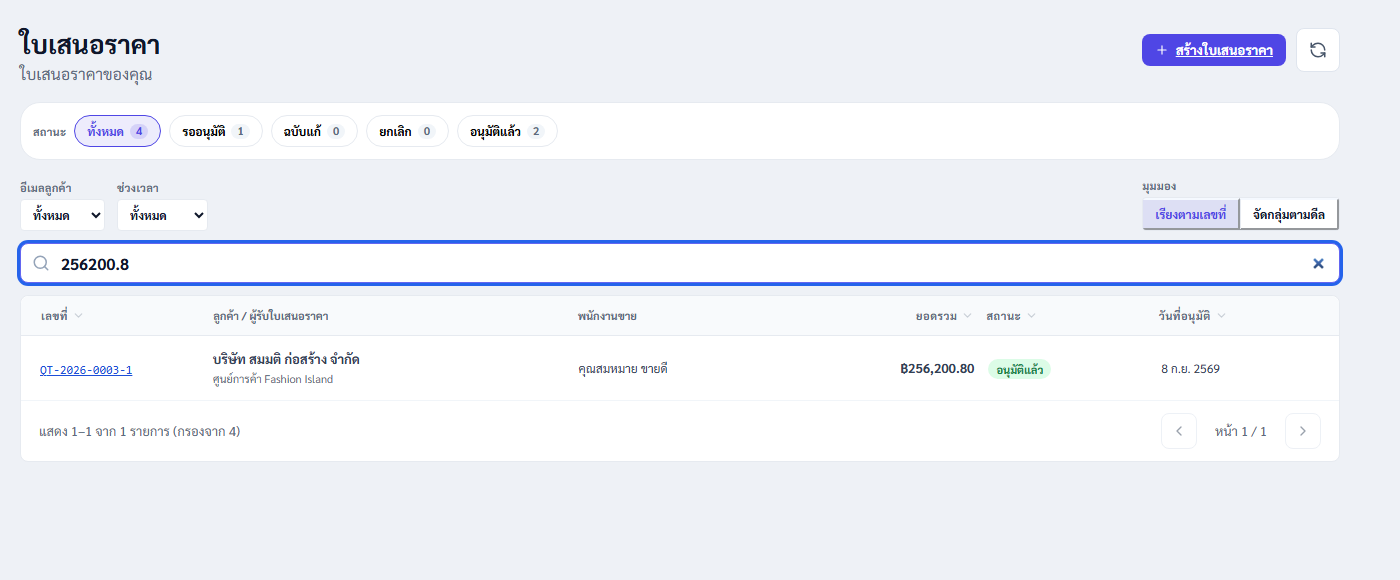
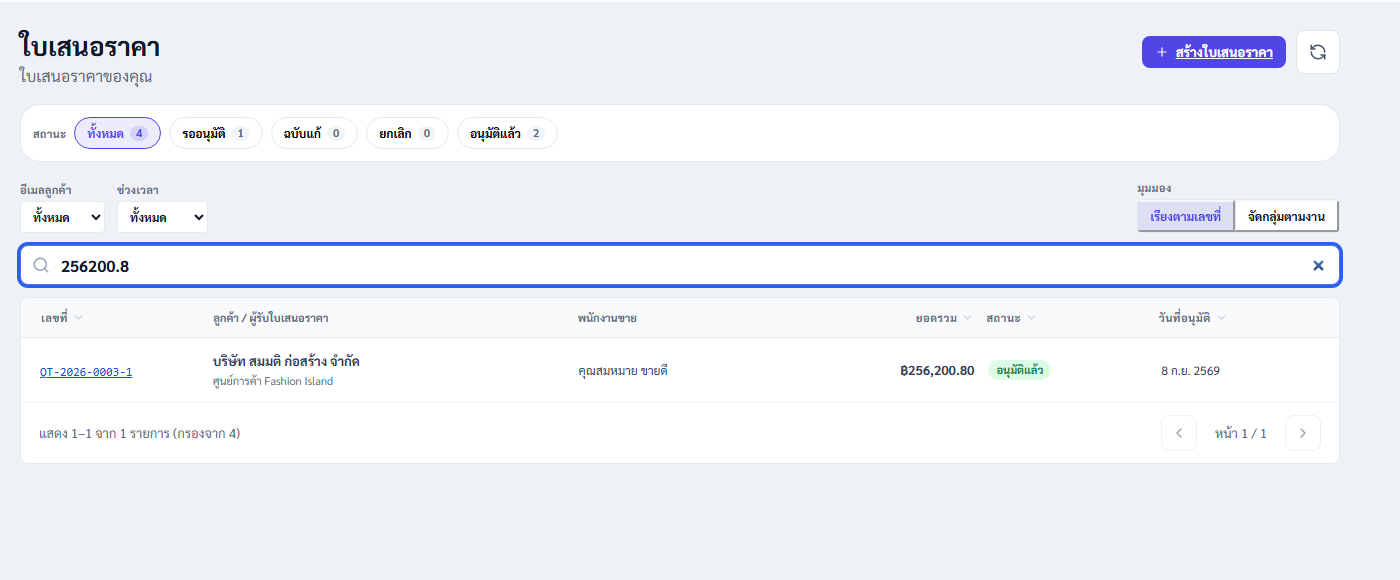
docs(whats-new): the 16 and 17 Nov notices name today's งาน labels; 13 screenshots re-shot
Owner ruling for this commit: staff following a notice must find the labels it names. team-overview and
ceo-home (16 Nov), the quotation-list and team lifecycle entries and the deal-page prose (17 Nov) now
quote the current labels; the re-shot pictures are pinned by hash deliberately. The RENAMED_AFTER_PUBLISH
escape hatch is gone, so every quoted label is checked against the screen again.

diff --git a/frontend/src/features/whatsNew/releases/2026-11-16.js b/frontend/src/features/whatsNew/releases/2026-11-16.js
@@ -108,15 +108,15 @@ const entries = [
     path: '/',
     landing: true,
     kind: 'new',
-    title: 'ภาพรวมทีมขาย: ใครถือดีลไหน และดีลไหนเงียบ',
-    why: 'เห็นดีลทั้งทีมในหน้าเดียว แยกตามพนักงานขาย พร้อมดีลที่เงียบเกินกำหนดและการเข้าพบของสัปดาห์นี้ แทนตัวเลขเดิมที่ไม่ตรง',
+    title: 'ภาพรวมทีมขาย: ใครถืองานไหน และงานไหนเงียบ',
+    why: 'เห็นงานทั้งทีมในหน้าเดียว แยกตามพนักงานขาย พร้อมงานที่เงียบเกินกำหนดและการเข้าพบของสัปดาห์นี้ แทนตัวเลขเดิมที่ไม่ตรง',
     steps: [
-      ['กดเมนู "แดชบอร์ด" ดูตัวเลขด้านบน', '"ดีลที่ถืออยู่" "ดีลเงียบเกิน 14 วัน" และ "เข้าพบสัปดาห์นี้" ของทั้งทีม', 'ตัวเลขสรุปของภาพรวมทีมขาย'],
-      ['ดูตาราง "รายคน"', 'แต่ละแถวคือพนักงานขาย: จำนวนดีล มูลค่า ดีลเงียบ และเวลาที่อัปเดตล่าสุด', 'ตารางรายคนของทีมขาย'],
-      ['ดู "ดีลที่ควรโทรตาม"', 'ดีลเงียบทั้งทีม เรียงตามมูลค่า × จำนวนวันที่เงียบ', 'รายการดีลที่ควรโทรตาม'],
+      ['กดเมนู "แดชบอร์ด" ดูตัวเลขด้านบน', '"งานที่ถืออยู่" "งานเงียบเกิน 14 วัน" และ "เข้าพบสัปดาห์นี้" ของทั้งทีม', 'ตัวเลขสรุปของภาพรวมทีมขาย'],
+      ['ดูตาราง "รายคน"', 'แต่ละแถวคือพนักงานขาย: จำนวนงาน มูลค่า งานเงียบ และเวลาที่อัปเดตล่าสุด', 'ตารางรายคนของทีมขาย'],
+      ['ดู "งานที่ควรโทรตาม"', 'งานเงียบทั้งทีม เรียงตามมูลค่า × จำนวนวันที่เงียบ', 'รายการงานที่ควรโทรตาม'],
       ['ดูตารางเข้าพบสัปดาห์นี้ รายคน', 'กด ‹ › เพื่อดูสัปดาห์ก่อนหรือสัปดาห์หน้า', 'ตารางเข้าพบสัปดาห์นี้แยกตามพนักงานขาย'],
     ],
-    help: 'ตัวเลขของใครไม่ตรง ให้พนักงานขายคนนั้นตรวจดีลในหน้างานของฉัน',
+    help: 'ตัวเลขของใครไม่ตรง ให้พนักงานขายคนนั้นตรวจงานในหน้างานของฉัน',
   }),
   entry({
     id: 'ceo-home',
@@ -126,9 +126,9 @@ const entries = [
     landing: true,
     kind: 'new',
     title: 'แดชบอร์ด CEO: ภาพรวมทีมขายอยู่บนสุด',
-    why: 'ดีลของทีม ดีลที่เงียบ และการเข้าพบของสัปดาห์ อยู่ด้านบนสุดของแดชบอร์ดก่อนส่วนอื่น',
+    why: 'งานของทีม งานที่เงียบ และการเข้าพบของสัปดาห์ อยู่ด้านบนสุดของแดชบอร์ดก่อนส่วนอื่น',
     steps: [
-      ['กดเมนู "แดชบอร์ด" ดูส่วน "ภาพรวมทีมขาย"', 'ตัวเลขทีม ตารางรายคน และดีลที่ควรโทรตาม เหมือนที่ผู้จัดการฝ่ายขายเห็น', 'ส่วนภาพรวมทีมขายบนแดชบอร์ด CEO'],
+      ['กดเมนู "แดชบอร์ด" ดูส่วน "ภาพรวมทีมขาย"', 'ตัวเลขทีม ตารางรายคน และงานที่ควรโทรตาม เหมือนที่ผู้จัดการฝ่ายขายเห็น', 'ส่วนภาพรวมทีมขายบนแดชบอร์ด CEO'],
       ['ดูตารางเข้าพบสัปดาห์นี้ รายคน', 'กด ‹ › เพื่อดูสัปดาห์อื่น', 'ตารางเข้าพบสัปดาห์นี้บนแดชบอร์ด CEO'],
     ],
     help: '',

diff --git a/frontend/src/features/whatsNew/releases/imageHashes.fixture.js b/frontend/src/features/whatsNew/releases/imageHashes.fixture.js
@@ -1,13 +1,14 @@
 // TEST FIXTURE: the sha256 of every "มีอะไรใหม่" screenshot, as reviewed. A re-shoot changes a hash ON PURPOSE: update
 // the line in the same change, after looking at the new picture. Generated from the files on disk (fix round 1, wn3).
 
-// The published 16 Nov release: must never change (it is already in staff bells).
+// The published 16 Nov release: changes only by a deliberate owner ruling. 2026-11-17 (ดีล → งาน sweep, fix round 1):
+// team-overview-1..4 and ceo-home-1..2 re-shot so the labels they show are the ones on screen.
 export const IMAGE_SHA256_2026_11_16 = Object.freeze({
[10 lines of base64/hex data omitted]
@@ -31,10 +32,10 @@ export const IMAGE_SHA256_2026_11_16 = Object.freeze({
[11 lines of base64/hex data omitted]
 });
 
 // The 17 Nov release (17a + 17d), reviewed in adversarial-task-wn2 / wn3.
@@ -63,7 +64,7 @@ export const IMAGE_SHA256_2026_11_17 = Object.freeze({
[8 lines of base64/hex data omitted]
@@ -92,13 +93,13 @@ export const IMAGE_SHA256_2026_11_17 = Object.freeze({
[19 lines of base64/hex data omitted]

diff --git a/frontend/src/features/whatsNew/releases/2026-11-17.test.js b/frontend/src/features/whatsNew/releases/2026-11-17.test.js
@@ -482,13 +482,8 @@ describe('2026-11-17 wording matches the screens', () => {
 
   it('every "quoted" label exists in the source of the screen it describes', () => {
     expect(release).not.toBeNull();
-    // A published notice is not rewritten (it describes the screens as captured). A label the owner renamed after
-    // publication (ดีล → งาน, 2026-11-17) is checked under its CURRENT name instead, so the entry still has to point
-    // at something that is on the screen. Only exact renames belong here.
-    const RENAMED_AFTER_PUBLISH = { 'จัดกลุ่มตามดีล': 'จัดกลุ่มตามงาน' };
     for (const entry of release.entries) {
-      for (const quoted of quotedLabels(entry)) {
-        const label = RENAMED_AFTER_PUBLISH[quoted] ?? quoted;
+      for (const label of quotedLabels(entry)) {
         expect(labelInSources(label, ENTRY_SOURCES[entry.id]), `${entry.id}: "${label}" is not on the screen`).toBe(true);
       }
     }
@@ -576,7 +571,7 @@ describe('2026-11-17 wording matches the screens', () => {
     }
     // The quotation list's view switch.
     for (const id of ['quotation-list', 'quotation-list-approver', 'quotation-list-view']) {
-      expect(quotedLabels(byId(id)), id).toEqual(expect.arrayContaining(['มุมมอง', 'จัดกลุ่มตามดีล', 'วันที่อนุมัติ']));
+      expect(quotedLabels(byId(id)), id).toEqual(expect.arrayContaining(['มุมมอง', 'จัดกลุ่มตามงาน', 'วันที่อนุมัติ']));
     }
   });
 
@@ -689,7 +684,12 @@ describe('2026-11-17 wording matches the screens', () => {
     // A remembered view is per browser (localStorage), not "the system".
     for (const entry of release.entries) for (const text of allText(entry)) expect(text, entry.id).not.toContain('ระบบจำ');
     expect(stepText('all-deals', 4)).toContain('เบราว์เซอร์นี้');
-    // ดีล → งาน is true on the board and the deal page, not on the quotation list ("จัดกลุ่มตามดีล", "เปิดดีล").
+    // ดีล → งาน holds on every sales screen since the 2026-11-17 sweep: no on-screen label in this notice says ดีล, and
+    // the deal page is หน้ารายละเอียดงาน (หน้างาน is the job SITE).
+    for (const entry of release.entries) {
+      for (const label of quotedLabels(entry)) expect(label, entry.id).not.toContain('ดีล');
+      for (const text of allText(entry)) expect(text, entry.id).not.toMatch(/หน้างาน(?!ทั้งหมด|การเงิน|ของฉัน)/);
+    }
     for (const entry of release.entries) {
       for (const text of allText(entry)) {
         expect(text, entry.id).not.toContain('หน้าจอฝ่ายขายเรียก');
@@ -897,7 +897,7 @@ describe('2026-11-17 lifecycle dialogs and document chain (17d)', () => {
     expect(quotedLabels(byId('deal-lifecycle'))).toEqual(expect.arrayContaining(['ควรตามต่อ', 'งานของฉัน']));
     // The team: first in ดีลที่ควรโทรตาม on ภาพรวมทีมขาย, counted in ดีลเงียบ (TeamOverview).
     expect(teamOverviewSrc).toContain('งานที่ถึงวันกลับมาดูขึ้นก่อน');
-    expect(quotedLabels(byId('deal-lifecycle-team'))).toEqual(expect.arrayContaining(['ภาพรวมทีมขาย', 'ดีลที่ควรโทรตาม', 'ดีลเงียบ']));
+    expect(quotedLabels(byId('deal-lifecycle-team'))).toEqual(expect.arrayContaining(['ภาพรวมทีมขาย', 'งานที่ควรโทรตาม', 'งานเงียบ']));
   });
 
   it('the lost and cancel reasons are the ones the dialogs offer today', () => {

diff --git a/frontend/src/features/whatsNew/releases/releases.test.js b/frontend/src/features/whatsNew/releases/releases.test.js
@@ -114,6 +114,19 @@ describe('2026-11-16 audiences (unlocked, as the test env runs)', () => {
     expect(idsFor(user('import'))).toEqual(['address', 'import-home', 'fulfilment', 'import-deal', 'pricing-request']);
   });
 
+  // Fix round 1 of the ดีล → งาน sweep (owner ruling): staff following the notice must find the labels it names, so
+  // the two entries about ภาพรวมทีมขาย quote today's labels, and those labels are on that screen.
+  it('the ภาพรวมทีมขาย entries name today\'s labels, not the old ดีล ones', () => {
+    const teamOverviewSrc = readFileSync(resolve(process.cwd(), 'src/features/salesBoard/TeamOverview.jsx'), 'utf8');
+    const text = (id) => JSON.stringify(release.entries.find((entry) => entry.id === id));
+    for (const id of ['team-overview', 'ceo-home']) expect(text(id), id).not.toContain('ดีล');
+    for (const label of ['งานที่ถืออยู่', 'งานเงียบเกิน', 'งานที่ควรโทรตาม', 'งานเงียบ']) {
+      expect(text('team-overview'), label).toContain(label);
+      expect(teamOverviewSrc, label).toContain(label);
+    }
+    expect(text('ceo-home')).toContain('งานที่ควรโทรตาม');
+  });
+
   it('every step of the published release keeps its screenshot', () => {
     for (const entry of release.entries) {
       entry.steps.forEach((step, index) => expect(step.image, `${entry.id} step ${index + 1}`).toBe(
